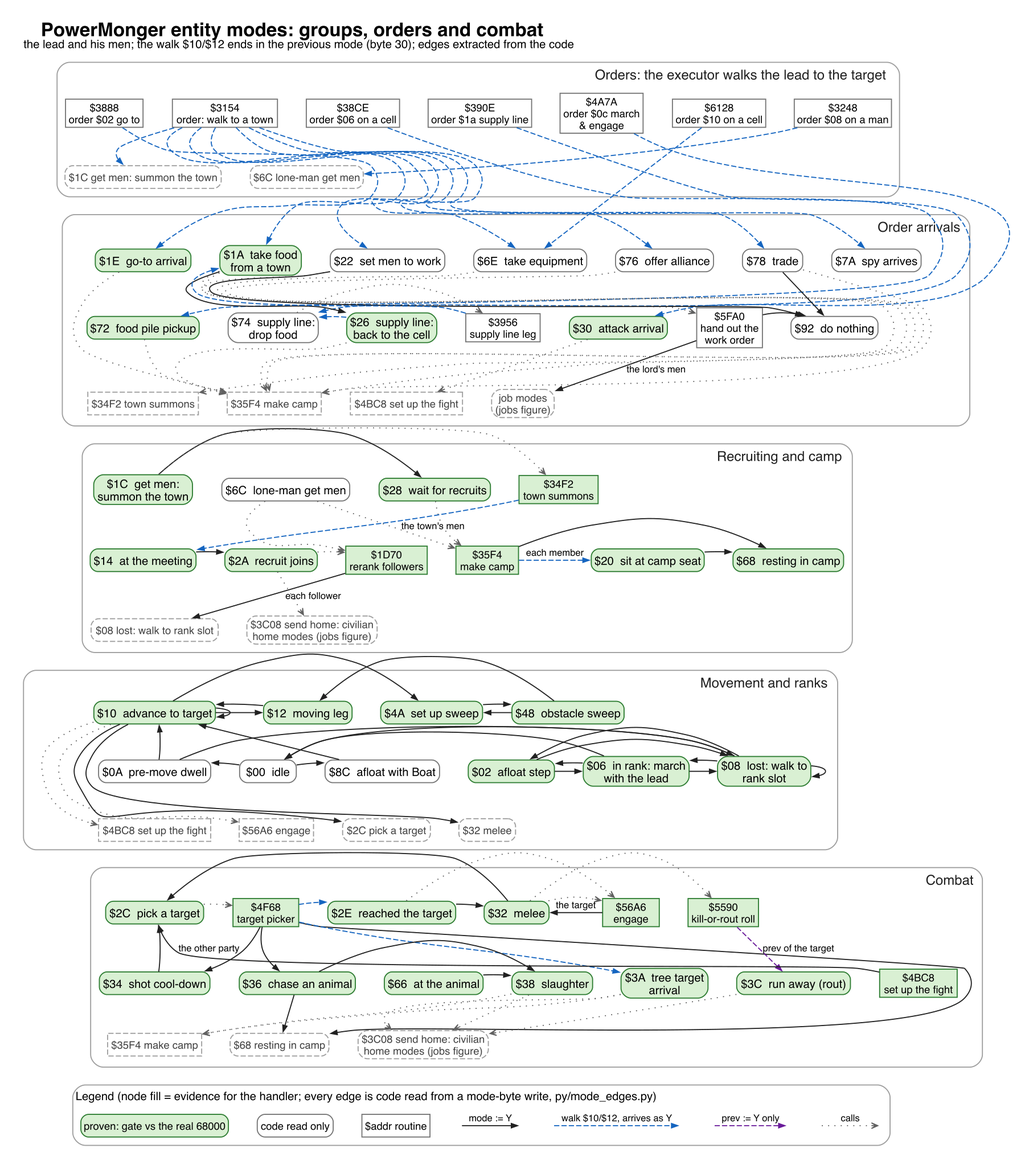
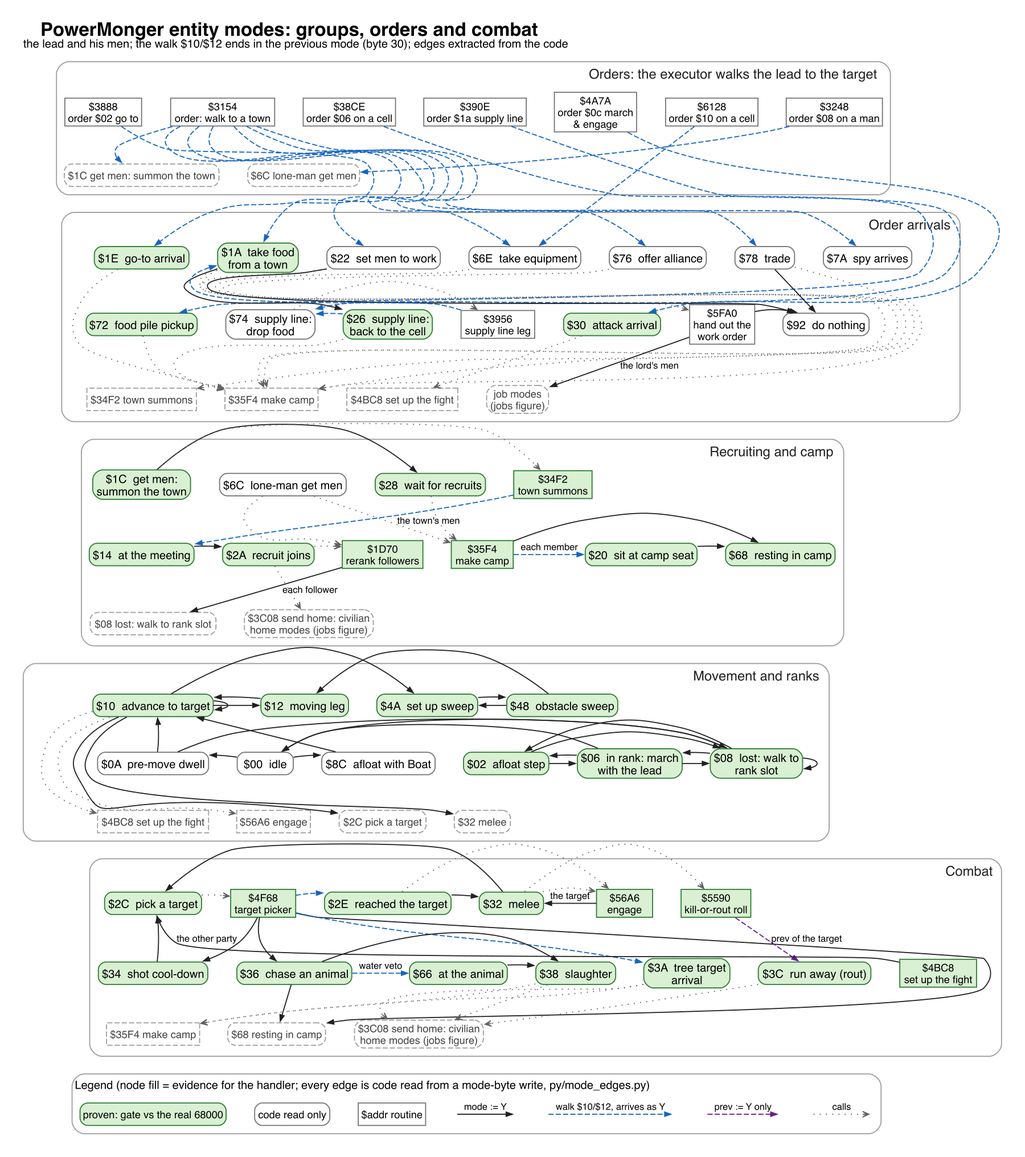
powermonger: mode-graph loose ends ($66 entered only via the $161f0 water veto, live under a one-byte prev poke; nothing writes $04/$64/$70, py/fsm/mode_write_scan.py; $3c74 unreached behind a nop; a routed group member never enters $3c, py/fsm/rout_fate.py); fsm_army gains the water-veto edge

diff --git a/M68000/reversing/powermonger/py/fsm/mode_write_scan.py b/M68000/reversing/powermonger/py/fsm/mode_write_scan.py
@@ -1,0 +1,123 @@
+#!/usr/bin/env python3
+"""Whole-image census of every instruction that can write an entity's mode byte (31) or previous mode (30).
+
+usage: mode_write_scan.py [<ram image>] [lo hi]     (default scratchpad/pm123/win/m1_ready.ram, $10a6..$1c48a)
+
+Three independent scans of the text segment:
+
+  A  decode at EVERY even address (not a linear sweep, so data or a desynced sweep cannot hide an instruction) and keep
+     each decode whose destination operand is d16(An)/d8(An,Xn) with displacement 28..31 and whose operand size makes
+     it cover byte 30 or 31: move/clr/st/sf/s<cc>/addq/subq/addi/subi/ori/andi/eori/bset/bclr/bchg/neg/not/tas/movem.
+     Each hit is tagged 'L' when the same address starts an instruction of the linear listing (tools/disassemble.py
+     --all) and '-' when it is only an off-alignment decode (data or the middle of another instruction).
+  B  raw byte patterns for an immediate store of a value V to offset 31 / 30, any An, any size, for V in TARGETS:
+     move.b #V,31|30(An), move.w #xxV,30(An), move.w #Vxx,30(An), move.l #....,28(An) with V in byte 31 or 30,
+     and the d8(An,Xn) forms; reported with alignment.
+  C  walk-path terminator words $7d02+V (the $0e walk sets mode := word - $7d02, ai.md `$0e` row) anywhere in the image.
+
+Output: stdout, and $PM_WORK/out/mode_write_scan.txt (default scratchpad/pm_fig).
+"""
+import os, re, struct, sys, subprocess
+
+here = os.path.dirname(os.path.abspath(__file__))
+root = here
+while not os.path.exists(os.path.join(root, 'tools', 'rdis.py')):
+    parent = os.path.dirname(root)
+    if parent == root:
+        sys.exit('repo root (tools/rdis.py) not found')
+    root = parent
+sys.path.insert(0, os.path.join(root, 'tools'))
+from disassemble import Disassembler  # noqa: E402
+
+work = os.environ.get('PM_WORK') or os.path.join(root, 'scratchpad/pm_fig')
+outdir = os.path.join(work, 'out')
+os.makedirs(outdir, exist_ok=True)
+args = sys.argv[1:]
+ram_path = args[0] if args else os.path.join(root, 'scratchpad/pm123/win/m1_ready.ram')
+LO, HI = (int(args[1], 16), int(args[2], 16)) if len(args) >= 3 else (0x10a6, 0x1c48a)
+ram = open(ram_path, 'rb').read()
+dis = Disassembler(ram, rom_base=0)
+TARGETS = [0x04, 0x64, 0x66, 0x70]
+
+out = []
+
+
+def p(s=''):
+    print(s)
+    out.append(s)
+
+
+# linear listing: the instruction starts of a sweep
+lst = subprocess.run([sys.executable, os.path.join(root, 'tools', 'disassemble.py'), '--rom', ram_path, '--base', '0',
+                      '--all', '%x' % LO, '%x' % HI], capture_output=True, text=True).stdout
+starts = {int(m.group(1), 16) for m in re.finditer(r'^\s*\$([0-9a-f]+):', lst, re.M)}
+
+WRITE_OPS = re.compile(r'^(move|clr|st|sf|s[a-z]{2}|addq|subq|addi|subi|add|sub|ori|andi|eori|or|and|eor|bset|bclr|bchg|'
+                       r'neg|negx|not|tas|movem|addx|subx)\b')
+DEST = re.compile(r'(?:^|,|\s)(-?\d+)\(A(\d)(?:,[DA]\d\.[wl])?\)$')
+SIZE = {'b': 1, 'w': 2, 'l': 4}
+
+p('ram %s, scan $%x..$%x, %d linear instruction starts' % (os.path.relpath(ram_path, root), LO, HI, len(starts)))
+p()
+p('== A: decodes at every even address whose destination covers byte 30 or 31 ==')
+hitsA = []
+for a in range(LO, HI, 2):
+    try:
+        text, nxt = dis.decode_one(a)
+    except Exception:
+        continue
+    op = text.split()[0]
+    if not WRITE_OPS.match(op) or op.startswith(('cmp', 'tst', 'btst')):
+        continue
+    m = DEST.search(text)
+    if not m:
+        continue
+    d = int(m.group(1))
+    sz = SIZE.get(op.split('.')[-1], 1) if '.' in op else 1
+    if op.startswith('movem'):
+        sz = 64                      # register list: be generous
+    if d <= 31 and d + sz > 30:
+        hitsA.append((a, text, 'L' if a in starts else '-'))
+for a, t, al in hitsA:
+    p('  %s $%06x  %s' % (al, a, t))
+p('A: %d hits, %d on the linear listing' % (len(hitsA), sum(1 for h in hitsA if h[2] == 'L')))
+p()
+
+p('== B: raw immediate stores of V to byte 31/30 (any An), V in %s ==' % ' '.join('$%02x' % v for v in TARGETS))
+
+
+def w(a):
+    return struct.unpack_from('>H', ram, a)[0]
+
+
+nB = 0
+for a in range(LO, HI - 8, 2):
+    op = w(a)
+    hit = None
+    if op & 0xf1ff == 0x117c and w(a + 4) in (30, 31) and (w(a + 2) & 0xff) in TARGETS:
+        hit = 'move.b #$%02x,%d(A%d)' % (w(a + 2) & 0xff, w(a + 4), (op >> 9) & 7)
+    elif op & 0xf1ff == 0x11bc and (w(a + 4) & 0xff) in (30, 31) and (w(a + 2) & 0xff) in TARGETS:
+        hit = 'move.b #$%02x,%d(A%d,Xn)' % (w(a + 2) & 0xff, w(a + 4) & 0xff, (op >> 9) & 7)
+    elif op & 0xf1ff == 0x317c and w(a + 4) == 30 and (w(a + 2) & 0xff in TARGETS or w(a + 2) >> 8 in TARGETS):
+        hit = 'move.w #$%04x,30(A%d)' % (w(a + 2), (op >> 9) & 7)
+    elif op & 0xf1ff == 0x31bc and (w(a + 4) & 0xff) == 30 and (w(a + 2) & 0xff in TARGETS or w(a + 2) >> 8 in TARGETS):
+        hit = 'move.w #$%04x,30(A%d,Xn)' % (w(a + 2), (op >> 9) & 7)
+    elif op & 0xf1ff == 0x217c and w(a + 6) in (28, 30) and (w(a + 4) & 0xff in TARGETS or w(a + 4) >> 8 in TARGETS
+                                                             or w(a + 2) & 0xff in TARGETS or w(a + 2) >> 8 in TARGETS):
+        hit = 'move.l #$%04x%04x,%d(A%d)' % (w(a + 2), w(a + 4), w(a + 6), (op >> 9) & 7)
+    if hit:
+        nB += 1
+        p('  %s $%06x  %s' % ('L' if a in starts else '-', a, hit))
+p('B: %d hits' % nB)
+p()
+
+p('== C: walk-path terminator words $7d02+V ==')
+nC = 0
+for v in TARGETS:
+    word = 0x7d02 + v
+    for a in range(LO & ~1, len(ram) - 1, 2):
+        if w(a) == word and a < 0x80000:
+            nC += 1
+            p('  $%06x  $%04x (mode $%02x)' % (a, word, v))
+p('C: %d hits over $%x..$80000 (whole RAM below the screen)' % (nC, LO & ~1))
+open(os.path.join(outdir, 'mode_write_scan.txt'), 'w').write('\n'.join(out) + '\n')

diff --git a/M68000/reversing/powermonger/py/fsm/rout_fate.py b/M68000/reversing/powermonger/py/fsm/rout_fate.py
@@ -1,0 +1,41 @@
+#!/usr/bin/env python3
+"""rout_fate.py <watch file>...: from WATCH lines over the object array's bytes 30/31 (natrun-style filtered `watch 51b66 25600`),
+follow every ROUT stamp (pc $561c, prev := $3c) and classify what happens to that record's previous mode before its next
+mode write by the $10 arrival ($14fdc):
+  kept    - prev still $3c at the arrival: the arrival sets mode $3c
+  rewrit  - prev rewritten first (by which pc, e.g. $3c84.. inside $3c08 via the $1b8c unlink, or a later order)
+  open    - no arrival before the end of the run.
+Prints counts and, per class, the rewriting pcs."""
+import re, sys, collections
+R = re.compile(r'step=(\d+) pc=\$([0-9a-f]+) (\w+) \$([0-9a-f]{8}) <- \$([0-9a-f]+)')
+for f in sys.argv[1:]:
+    ev = collections.defaultdict(list)
+    for l in open(f):
+        m = R.search(l)
+        if not m:
+            continue
+        a = int(m.group(4), 16); off = (a - 0x51b66) % 50
+        pc = int(m.group(2), 16); v = int(m.group(5), 16)
+        if m.group(3) == 'WriteWord':
+            ev[a - off].append((pc, 'P', v >> 8)); ev[a - off].append((pc, 'M', v & 0xff))
+        else:
+            ev[a - off].append((pc, 'P' if off == 30 else 'M', v))
+    cls = collections.Counter(); who = collections.Counter(); arr_modes = collections.Counter()
+    for rec, es in ev.items():
+        for i, (pc, k, v) in enumerate(es):
+            if pc != 0x561c:
+                continue
+            prev, fate = 0x3c, 'open'
+            for pc2, k2, v2 in es[i + 1:]:
+                if pc2 == 0x561c:
+                    break
+                if k2 == 'P':
+                    if v2 != prev:
+                        who['%x' % pc2] += 1
+                    prev = v2
+                elif pc2 == 0x14fdc:
+                    fate = 'kept' if v2 == 0x3c else 'rewrit'
+                    arr_modes['%02x' % v2] += 1
+                    break
+            cls[fate] += 1
+    print(f, dict(cls), 'arrival modes', dict(arr_modes), 'prev rewriters', dict(who))

diff --git a/M68000/reversing/powermonger/py/fsm/build_fsm.py b/M68000/reversing/powermonger/py/fsm/build_fsm.py
@@ -216,6 +216,15 @@ def derive():
             E.discard(('m', y, 0x10, 'set', ''))
             for p in ps:
                 E.add(('m', y, p, 'walk', ''))
+    # the water veto: a mode whose walk ends in the epilogue $161c4 is set to $00 at $161f0 when its
+    # step lands on water, keeping byte 30; $00 goes to $0a ($14caa, then $10 at $14e44 when word 28 is 0) or, with a
+    # Boat, to $8c ($14c9a, then $10 at $14c66 on landing), and the $10 arrival $14fdc copies byte 30 into 31. So a mode
+    # Y that has a pending prev P and stops at $161c4 can end in P without a walk of its own (live: $36 -> $66).
+    for y, ps in pending.items():
+        r = D['modes'].get('%02x' % y, {})
+        if 'epi161c4' in r.get('stops', []) and ('m', y) not in unpaired_walk:
+            for p in ps:
+                E.add(('m', y, p, 'walk', 'water veto'))
     return E
 
 

diff --git a/M68000/reversing/powermonger/ai.md b/M68000/reversing/powermonger/ai.md
@@ -715,7 +715,10 @@ the settled first-mission view.
 
 **`$04`/`$06`.** Every man in `$06` is a group follower (flag bit 6) with a live leader in `28` and non-zero `(20,22)`
 rank offsets (31,995 of 31,996 over 2,352 snapshots, `py/names/census_modes.py`). Mode `$04` is a table alias nothing
-sets (no immediate writer, 0 men in those snapshots).
+sets (0 men in those snapshots). `$64` and `$70` are single-branch handlers (`$16044 bra $16202`, `$160e0 bra $1622c`),
+and nothing sets them either: a whole-image scan of `$10a6..$1c48a` at every even address finds no immediate, register,
+table or walk-terminator write of `$04`, `$64` or `$70` to byte 30 or 31 (`py/fsm/mode_write_scan.py`; the 171 real
+mode-byte writers are the 152 sites `mode_edges.py` walks plus `$2d04`, `$3c74` and `$161f0`).
 
 **`$08`.** `$1d70` (`_rerank`) sets mode and previous mode `$08` on every follower after it assigns the slot offset
 `(20,22)`. Live from `p0k0_s1`: 17 of 17 and 34 of 34 men go to `$08` and then to `$06` and back
@@ -740,7 +743,7 @@ Random Land roll, 473 men in 20 snapshots: `$20` 122, `$4e` 54, `$16` 41, `$2e` 
 | `$2e` | `$15302` | – | **reached the target** `48(A1)`: snap `(D6,D7)` onto it, set both mode bytes `$32`; `jsr $56a6` iff `s8(mode(target)) <= $2c` **or** `s8(prev_mode(target)) >= $3c` (signed byte tests; a target in a combat or order mode with an old prev mode below `$3c` is not engaged). *Proven, `py/fsm15/gate_fsm15.py`: 49 states over seven target mode/prev pairs; the engage fired in 6 of 7 for ($10,$10), 7 of 7 for ($68,$68)* |
 | `$32` | `$1533c` | – | *(Proven, see the combat block above)* **melee**: `tst.b 5(A3) <= 0` or `30(A3) == $3c` (target dead, or routed: the ROUT roll stamps `prev_mode := $3c`, original `run_away`) → mode/prev `:= $2c`, epilogue `$161c4`. Else face away (`17(A3) := 17(A1) + $80`); if target `31 != $32` → `jsr $56a6`. **Drain health `45(A3)` by `(s8(44(A1)) < 6 ? 44(A1) : 0) >> 1 + 1`** via `sub.b` (the `>= 6` arm is a hard `moveq #0`, *not* `min`). `> 0` → mutual retaliation (`48(A3) := self`, `31(A3) := $32`, `bra $1622c` — no epilogue). `<= 0` → `jsr $5590`, then mode/prev `:= $2c` + `$161c4` |
 | `$34` | `$153b2` | – | **shot cool-down** (evidence in the note below the table): set by `$5150` after its `$57f0` call, which seeds the dwell high byte with `$14` (`move.b 15(A0),18(A1)`); `subi.b #1,18(A1)` per tick (a byte, the low byte 19 is untouched), then at negative mode/prev `:= $2c`, so 21 ticks |
-| `$36` | `$153cc` | – | **chase the entity `48(A1)`** (original `goto_ani`, "go to animal"; **natural**, see the note below the table for how it is reached and the live evidence). Set only by `$5100` in `$50da`, the `38(A1) == 8` arm of the `$4f68` picker, when `5(target) > 0`, so the target is an animal. Target dead (`5(A3) <= 0`) → `6(A1) := $e`, mode `$68`; else `$164bc` steps toward its position; on contact (the block at `$15428..$1545c` is skipped by the unconditional `bra $15468` at `$15426`; `$15468`, which sets the mode, is live) dwell `18 := $a`, mode `$38` (`$1547e`, the slaughter: `subi.w #1,18`), the target's byte 7 `:= $10`; at 0 the target becomes category `$1c` (carcass) with its side byte negated, and the chaser either adds `$b4` food to its home lord and calls `$3c08` (no byte-7 bit 4/6) or adds `$b4` to the group's food and calls `$35f4` |
+| `$36` | `$153cc` | – | **chase the entity `48(A1)`** (original `goto_ani`, "go to animal"; **natural**, see the note below the table for how it is reached and the live evidence). Set only by `$5100` in `$50da`, the `38(A1) == 8` arm of the `$4f68` picker, when `5(target) > 0`, so the target is an animal. Target dead (`5(A3) <= 0`) → `6(A1) := $e`, mode `$68`; else `$164bc` steps toward its position; on contact (the block at `$15428..$1545c` is skipped by the unconditional `bra $15468` at `$15426`; `$15468`, which sets the mode, is live) dwell `18 := $a`, mode `$38` (`$1547e`, the slaughter: `subi.w #1,18`), the target's byte 7 `:= $10`; at 0 the target becomes category `$1c` (carcass) with its side byte negated, and the chaser either adds `$b4` food to its home lord and calls `$3c08` (no byte-7 bit 4/6) or adds `$b4` to the group's food and calls `$35f4`. The prev byte `$66` that `$5106` stamps becomes the mode only through the water veto: a `$36` step onto water sets mode `$00` at `$161f0` and leaves byte 30, `$00` reaches a `$10` arrival through `$0a` (then `$14e44`, only when word 28 is 0) or, with a Boat, through `$8c` (then `$14c66` on landing), and `$14fdc` copies `$66` into the mode. `$66` is the contact tail `$1540c`: dwell `$a` and mode `$38` with no distance test, so the man slaughters the remembered target wherever he stands, a carcass included (it flips the side byte back and pays the food again, code read). Live 1 of 1 under a one-byte prev poke (`pm150/arms/nat/k108e_4.snap`, `w 52320 0cb26610` on boat man `$52304`; the control arrives as `$20`); 0 unaided in 6 runs of 200M steps, because a group's camp `$35f4` rewrites the prev first (`fig/fsm.facts.md`) |
 | — | `$56a6` | – | *(Proven on the `$574a` path, combat block)* **engage**: if `flags.bit6(target)` and the linked enemy `28(A3)` is within `$fff` (Manhattan-max) → `jsr $5778`; then set both mode bytes `$32`, link attacker into `48(A3)`, and pick `46(A3)` — from `28(A1)` / self (`$5730`, if the attacker has a group) or the attacker's leader-table entry (`$574a`, `38(A3) := 2`) |
 | — | `$5778` | – | **the group lead is engaged, not a resolver** (original `_make_ca...`, which it shares only as a truncation with the camp builder `$35f4`; unresolved) — see `strategy.md` "Combat". A camped group (state 6) has its camp-fire prop `46(A3)` put out (`$12` → `$11`, live), a group not yet fighting (state `!= $d`) goes to `$4bc8` (set up the fight, group to state `$d`; Proven, its own block). When the group already fights and the attacker leads a group, `$5778` writes 4 into the group's opponent-class word (`204(group)`, `280()` of the side record) and then overwrites it with the attacker's entity offset (`$57d8`, `$57e6`). This is a game bug (inferred: `$4d68`/`$4d6c` write the class to 204 and the offset to 216). Live 1 of 1 (`pm143/run/rand1_s1`, `bp 57d8` at step 28,191,415); 237 of 2403 fighting groups in 896 snapshots hold an offset (`py/cmdai/phase_census.py`). The effect is small on the natural cases: in an A/B over 8 of them (`py/cmdai/ab_5778.py`, 20M steps each, the class word put back to 4 in the B run), only one group's posture changed. On a group 0, the offset turns off the escort arm for the side's other groups, which then attack instead (reverse A/B, 2 of 3 cases: escorts 46 → 0 and 247 → 0); no natural state of that kind has been seen. See `strategy.md` "The opponent class `280()`". Live: 18 natural calls in `p0k0_s1`, 1 changed state 6 → 13, 17 were no-ops. |
 | — | `$5590` | – | *(Proven on the KILL branches, combat block)* **kill-or-rout roll** (from mode `$32` when `health <= 0`): `45(A3) := 0`; `D0 := $30fe = group.field60 − 2` (attacker in a group with a live lead), else `D0 := 0`. `D0 == 0` → **KILL**; `D0 == 2` → `$560a`; else `($57fec + 24(A1)) & 2` parity → KILL / `$560a` (the two outcomes are described in the note below the table) |
@@ -820,7 +823,11 @@ unattributed); the group branch left the lord's food unchanged.
 **`$5590`, outcomes.** **KILL**: `neg.b 5(A3)`, `32(A3) := 0`, `category $6 := $c` corpse, `dwell := $a0` (160-tick
 decay), then the `$5628` tail (`$567e` → `leader.troops_field -= 1`). **`$560a`**: `flags.bit5(target)` set → KILL
 anyway; else `jsr $3c08` (**ROUT**: restructure the group, `prev_mode := $3c`, unit survives; *asserted off in the
-combat-block proof*).
+combat-block proof*). The tail then unlinks a group member (`$1b8c`), whose own `$3c08` call (`$1bea`) replaces prev `$3c`
+with the man's job home mode, so only a man outside a group enters mode `$3c`, at his next `$10` arrival (`$14fdc`); mode
+`$3c` (`$15598`) then adopts the home settlement's side through `$16848`. Live by a whole-array watch over 100M steps
+(`py/fsm/rout_fate.py`): on `rand1` 23 of 44 rout stamps arrive as `$3c`, 3 have the prev rewritten first, 18 reach no
+arrival in the run; on `pm143/lands/k48` 54, 1 and 34 of 89.
 
 **`$596a`, hit effects.** A man hit by an arrow loses `$52` health (the `$5590` roll when that leaves 0 or less); a
 pigeon is shot down (`$4624`). The type-`$12` area effect (stamp categories in the arrow's cell) is unreachable.
@@ -1914,7 +1921,7 @@ the `$155ac` no-tree exit with flag bit 6, three edge-fail statements of `$15c46
 | `$2a` | `$15282` | 37 | 209 | join, quota 0, negative quota, side mismatch, refused, first-tick dwell, lead not in state 3 |
 | `$2c` `$30` `$34` | `$152f8` `$1518a` `$153b2` | 5, 4, 8 | 5, 309, 12 | `$2c` glue only; `$4f68` is `diff_4f68.py` |
 | `$2e` | `$15302` | 49 | 1088 | seven target mode/prev pairs |
-| `$36` `$66` `$38` `$3a` | `$153cc` `$1540c` `$1547e` `$15518` | 49, 7, 12, 26 | 392, 21, 208, 552 | `$66` synthetic only; natural entries for `$36`, `$38` and `$3a` (below); `$3a` proven for in-range y only (below) |
+| `$36` `$66` `$38` `$3a` | `$153cc` `$1540c` `$1547e` `$15518` | 49, 7, 12, 26 | 392, 21, 208, 552 | `$66` live only under a one-byte prev poke (the water veto, `$36` row); natural entries for `$36`, `$38` and `$3a` (below); `$3a` proven for in-range y only (below) |
 | `$3c` `$3e` `$40` `$44` `$46` `$6a` | `$15598` `$155ac` `$15680` `$156be` `$15724` `$156e0` | 9, 53, 3, 5, 9, 3 | 20, 258, 14, 35, 11, 19 | |
 | `$48` `$4a` | `$158da` `$1597a` | 277, 9 | 1046, 32 | incl. map-edge probes and the `$80` sweep word |
 | `$4c` | `$16176` | 12 | 453 | `$5c2c` side reconcile (the callcap needs the sound flag `$2c993` poked to 0) |

diff --git a/M68000/reversing/powermonger/fig/fsm.facts.md b/M68000/reversing/powermonger/fig/fsm.facts.md
@@ -1,8 +1,8 @@
 # Facts behind `fsm_jobs.svg` and `fsm_army.svg`
 
-Generated: `py/mode_edges.py` (code read of `scratchpad/pm123/win/m1_ready.ram`, text `$1050..$1d000`) then
-`py/build_fsm.py`. Edge data: `out/mode_edges.json` (raw writes per walk), `out/fsm_edges.json` (177 derived edges:
-76 set, 41 walk, 1 prev-only, 59 calls). `py/dump_edges.py` prints the raw writes.
+Generated: `py/fsm/mode_edges.py` (code read of `scratchpad/pm123/win/m1_ready.ram`, text `$1050..$1d000`) then
+`py/fsm/build_fsm.py`. Edge data: `out/mode_edges.json` (raw writes per walk), `out/fsm_edges.json` (178 derived edges:
+76 set, 42 walk (one of them the water veto `$36 -> $66`), 1 prev-only, 59 calls).
 
 ## Structure (code)
 
@@ -14,7 +14,7 @@ Generated: `py/mode_edges.py` (code read of `scratchpad/pm123/win/m1_ready.ram`,
 | the walk: `$10` advances, `$12` is the leg, arrival `$14fdc` copies byte 30 into 31 (`move.b 30(A1),31(A1)`) | text.lst `$14fdc`; ai.md `$10`/`$12` rows |
 | path terminators: `farm` (cursor `$50`) ends `$7d26` -> mode `$24`; `pots` (cursor `$76`) ends `$7d6c` -> mode `$6a`; `$7d00` (mode `$92`, `$14efe`) ends only `fp2`, never loaded | read from RAM by `build_fsm.py` `path_end`; ai.md walk-path row ("only farm and pots are ever loaded") |
 | `$3c08` previous modes by flag: bit 7 `$7e`, bit 0 `$16`, bit 1 `$4e`, bit 2 `$5e`, bit 3 `$80`, bit 4 `$4c`, none `$7e`; then mode `$10` | text.lst `$3c08..$3cd0`; pm_fsm_ref `_FLAGBIT_MODE30` |
-| `$3c74 move.b #$92,30(A1)` inside `$3c08` has no branch to it in the whole listing (unreached) | `grep 3c74 out/text.lst`: one line, the instruction itself |
+| `$3c74 move.b #$92,30(A1)` inside `$3c08` has no branch to it in the whole listing (unreached): no decode at any even address, no longword and no PC-relative word table names it. The four bytes at `$3c10` are `bgt.s $3c14 / nop`; a `bra.s $3c74` (`6060`) in place of the `nop` would make it the owner `<= 0` arm (an inferred patch). `$3c08` ran 3565 times, every one with owner > 0, in 4.1G steps over 41 snapshots; with `w 3c10 6e026060` a `callcap` of `$3c08` on a corpse writes prev `$92` | `grep 3c74 out/text.lst`: one line, the instruction itself; `py/fsm/mode_write_scan.py` |
 | `$16892` D2 = `$8e` from `$4f7e`/`$4f82` (picker), `$90` from `$157ce`/`$157d2` (`$7c` regroup) | text.lst |
 | `$5cde`/`$5fa0` stamp `31 := D2`, D2 in {`$40` build, `$3e` fell, `$6a` fallback} | text.lst `$5dd0`, `$5e7a`, `$5ede`, `$5ee4`, `$5f78`; ai.md `$5cde` block |
 | `$3154` prev D4 per order: `$1a` (`$6bce`), `$1c` (`$6bfa`), `$22` (`$6c58`), `$6e` (`$6c7a`), `$78` (`$6d22`), `$76` (`$6d42`), `$7a` (`$6d66`) | text.lst, seven `jsr $3154` sites |
@@ -41,7 +41,8 @@ Labels: ai.md mode tables, economy.md 2a, strategy.md orders table, `powermonger
 ## Could not pin down / flags
 
 - **`$94`**: the table word resolves to `$15bdd` (odd). ai.md says every entry `$00..$94` resolves inside the handler block; nothing writes `$94`, so it is harmless, but the sentence is off by one entry. Contradiction flagged, not resolved.
-- **Never set as a mode** (no write of byte 31 and no walk arrival that ends in it): `$04` (alias), `$64`, `$70` (fsm15 glue, synthetic only), `$94`. `$66` is written only as a previous mode (`$5106`, with mode `$36`); `$36` leaves by `$38` or `$68`, never through `$10`, so how a man reaches mode `$66` is open (fsm15: `$66` synthetic only).
-- **`$3c` (rout)**: only `$5590` stamps prev `$3c` on the target; the mode is entered at that man's next walk arrival. Census shows 7956 natural `$3c` entries; the path is inferred from the code, not traced.
+- **Never set as a mode** (no write of byte 31 and no walk arrival that ends in it): `$04` (alias), `$64`, `$70` (fsm15 glue, synthetic only), `$94`. A whole-image scan of `$10a6..$1c48a` at every even address finds no immediate, register, table or walk-terminator write of `$04`, `$64` or `$70` to byte 30 or 31 (`py/fsm/mode_write_scan.py`).
+- **`$66`** is entered only at a `$10` arrival (`$14fdc`) after prev `$66` (`$5106`, with mode `$36`) survives a water veto: a `$36` step onto water sets mode `$00` at `$161f0`, and `$00` goes to `$0a` (then `$10` at `$14e44` when word 28 is 0) or, with a Boat, to `$8c` (then `$10` on landing, `$14c66`). Live under a one-byte prev poke (`k108e_4`, 1 of 1); not seen unaided in 1.2G steps, because a group's camp (`$35f4`) rewrites the prev first. Drawn as the dashed water-veto edge `$36 -> $66`, which `build_fsm.py` adds for every mode that stops at the `$161c4` epilogue with a pending prev (this one edge).
+- **`$3c` (rout)**: only `$5590` stamps prev `$3c` on the target (`$561c`); the mode is entered at that man's next walk arrival (`$14fdc`). Live: 23 of 44 rout stamps arrive as `$3c` on `rand1`, 54 of 89 on `k48`, 100M steps each (`py/fsm/rout_fate.py`). A routed group member never does: the rout tail's unlink `$1b8c` calls `$3c08` again and the man arrives in his job home mode.
 - Mode/prev pairing is by nearest write address within a walk. It matches every pair checked by hand (`$16`, `$52`, `$54`, `$56`, `$86`, `$88`, `$3c08`, `$600a`, `$4f68` tail), but it is a heuristic.
 - The call edges stop at depth 1 (a mode's direct callees and one intermediate). The `$16848 -> $5c2c -> $4bc8` owner-mismatch path, reachable from every job arrival, is not drawn.

diff --git a/M68000/reversing/powermonger/py/README.md b/M68000/reversing/powermonger/py/README.md
@@ -144,6 +144,7 @@ Run everything from `M68000/`. Shell scripts write under `$PM_WORK` (default
 | `cmdai/phase_census.py <snap>...` | the opponent-class word `280()` (group `+204`) and opponent offset `292()` of every live group by state: state `$d` holds class 2 ×628, 4 ×1538, an entity offset ×237 (the `$5778` overwrite) over 896 snapshots (`../strategy.md` "The opponent class `280()`") |
 | `cmdai/ab_5778.py [steps] [snap:s:k[:val] ...]` | A/B of the `$5778` overwrite: per case an unpoked run and one with the class word put back to 4, same budget; hits of `$6526`/`$66e8`/`$6726`/`$672e`/`$65ec`/`$65f4`, the arms `$65c8`..`$66a4`, ... and the end-state byte diff (8 natural cases: posture differs in 1, `$65ec` 0 hits). With `:val` (hex) it runs in reverse: B writes `val` into a class-4 word (`X10G_k25_c1:3:0:154a`, `M2G_k14_c3:4:0:122a`, 200M: escort 46 → 0 and 247 → 0, attack instead); output `$PM_WORK/ab/` |
 | `fsm/mode_edges.py`, `fsm/build_fsm.py`, `fsm/svgkit.py` | the entity mode graph from the code: `mode_edges.py` walks every handler of the `$14bb4` table and the routines they call in `m1_ready.ram` (text `$1050..$1d000`) and lists each write of the mode byte 31 and previous mode 30 (177 edges: 76 set, 41 walk, 1 prev-only, 59 calls); `build_fsm.py` lays them out as `../fig/fsm_jobs.svg` and `../fig/fsm_army.svg` (`../ai.md` "The entity FSM"); `svgkit.py` is the small SVG writer the figure scripts share. Every figure script writes to `$PM_WORK/out` (default `scratchpad/pm_fig/out`); the committed copies are in `../fig/` |
+| `fsm/mode_write_scan.py [ram] [lo hi]`, `fsm/rout_fate.py <watch file>...` | `mode_write_scan.py`: every write to the mode bytes 30/31 in the text segment, decoded at every even address (A), raw immediate stores of `$04 $64 $66 $70` (B), walk-terminator words (C): 192 hits in A (171 real writers: `mode_edges.py`'s 152 plus `$2d04`, `$3c74`, `$161f0`), 1 in B (`$5106`), 0 in C, so nothing sets `$04`, `$64` or `$70`. `rout_fate.py`: from a whole-array `watch 51b66 25600`, what becomes of each rout stamp (`$561c`, prev `$3c`) before the `$14fdc` arrival: `rand1` 23 of 44 arrive as `$3c` (`../ai.md` `$5590` outcomes, `../fig/fsm.facts.md`). `build_fsm.py` draws the `$161f0` water veto as a dashed edge (`$36 -> $66`) |
 | `fsm/build_tick.py`, `fsm/build_economy.py` | `../fig/tick.svg` (the tick body `$13000` beside the `$14b62` flow and the pools that share the tick, `../ai.md` "The simulation tick") and `../fig/economy.svg` (the flows of one lord record, `../economy.md` "Complete picture"), every label taken from the doc sections named in each script; regeneration is byte-identical |
 | `docs/gen_group_soa.py` | `../fig/group_soa.svg`: the group fields as six-word arrays, each field's byte offsets for groups 0 to 5 from the side base, with a worked example for side 1, group 2 (`../strategy.md` "`$51538` — group-order table") |
 | `scan_mode36.py [ram] [lo] [hi]` | raw whole-image scan (every even address, default `$0..$1d000` of `m1_ready.ram`) for every instruction form that can put `$36` into an object's mode byte 31: one `move.b #$36` (`$5100`), no wider immediate, no ALU write; it also lists the register-source writes of byte 31 to check by hand (`../ai.md` "`$36`, single writer") |
